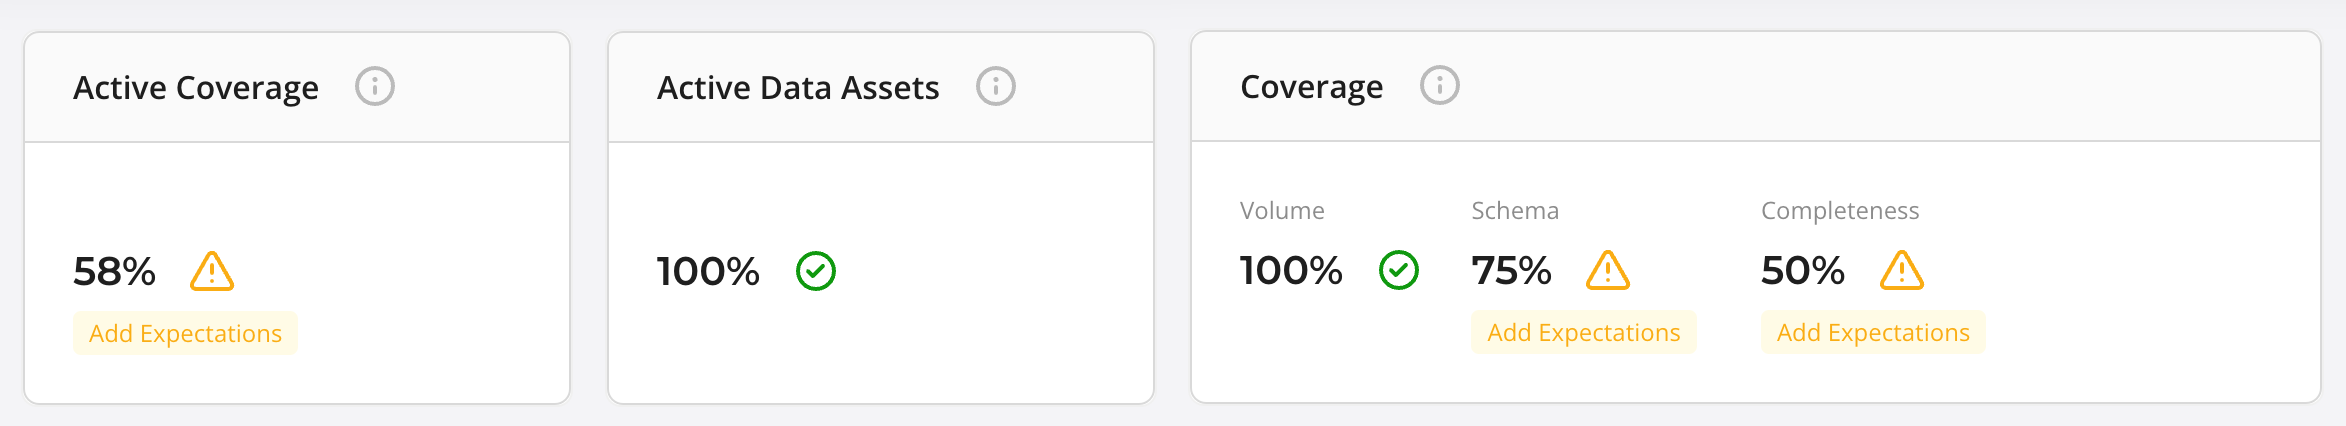
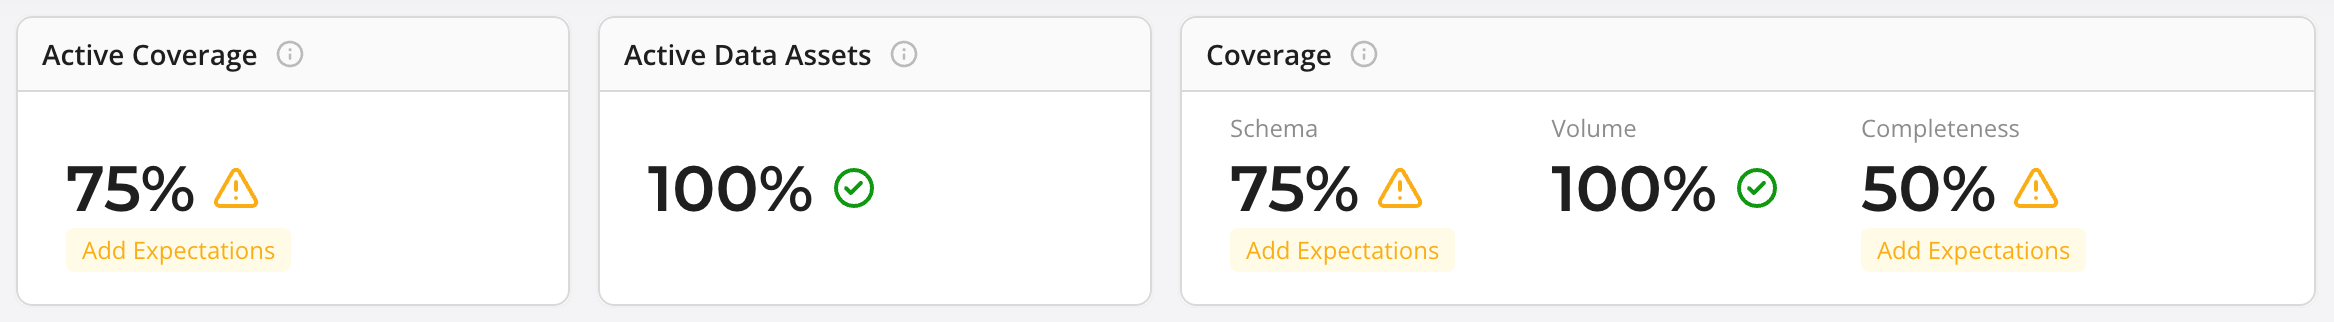
order

diff --git a/docs/docusaurus/docs/cloud/overview/coverage_health.md b/docs/docusaurus/docs/cloud/overview/coverage_health.md
@@ -8,23 +8,19 @@ To understand data health, you need to know more than just whether tests are pas
 ## Coverage health metrics
 To help you have a better understanding of data health, GX Cloud provides the following coverage health metrics on the **Data Assets** page:
 
-![Example metrics: Active Coverage 58% warning add Expectations, Active Data Assets 100%, volume 100%, schema 75% warning add Expectations, completeness 50% warning add Expectations.](/img/coverage_health.png)
+![Example metrics: Active Coverage 75% warning add Expectations, Active Data Assets 100%, schema 75% warning add Expectations, volume 100%, completeness 50% warning add Expectations.](/img/coverage_health.png)
 
-- **Active Coverage:** The percentage of Data Assets that have been validated in the last 30 days with an Expectation for volume, schema, or completeness. This is calculated as:
+- **Active Coverage:** The percentage of Data Assets that have been validated in the last 30 days with an Expectation for schema,volume, or completeness. This is calculated as:
    
    ```markup title="Formula"
-   ((% of Data Assets validated for volume) +
-    (% of Data Assets validated for schema) +
+   ((% of Data Assets validated for schema) +
+    (% of Data Assets validated for volume) +
     (% of Data Assets validated for completeness))
    / 3
    ```
 
 - **Active Data Assets:** The percentage of Data Assets that have had any Validations in the last 30 days. This metric does not consider what kinds of Expectations have been validated. 
 - **Coverage** for the following data quality issues. Note that these metrics consider only whether or not Expectations exist. The following metrics do not consider whether the Expectations have been validated. 
-   - **Volume:** The percentage of Data Assets that have at least one volume-focused Expectation. This includes the following Expectations:
-      - [ExpectTableRowCountToBeBetween](https://greatexpectations.io/expectations/expect_table_row_count_to_be_between/)
-      - [ExpectTableRowCountToEqual](https://greatexpectations.io/expectations/expect_table_row_count_to_equal/)
-      - [ExpectTableRowCountToEqualOtherTable](https://greatexpectations.io/expectations/expect_table_row_count_to_equal_other_table/)
    - **Schema:** The percentage of Data Assets that have at least one schema-focused Expectation. This includes the following Expectations:
       - [ExpectColumnToExist](https://greatexpectations.io/expectations/expect_column_to_exist/)
       - [ExpectColumnValuesToBeInTypeList](https://greatexpectations.io/expectations/expect_column_values_to_be_in_type_list/)
@@ -33,6 +29,10 @@ To help you have a better understanding of data health, GX Cloud provides the fo
       - [ExpectTableColumnCountToEqual](https://greatexpectations.io/expectations/expect_table_column_count_to_equal/)
       - [ExpectTableColumnsToMatchOrderedList](https://greatexpectations.io/expectations/expect_table_columns_to_match_ordered_list/)
       - [ExpectTableColumnsToMatchSet](https://greatexpectations.io/expectations/expect_table_columns_to_match_set/)
+   - **Volume:** The percentage of Data Assets that have at least one volume-focused Expectation. This includes the following Expectations:
+      - [ExpectTableRowCountToBeBetween](https://greatexpectations.io/expectations/expect_table_row_count_to_be_between/)
+      - [ExpectTableRowCountToEqual](https://greatexpectations.io/expectations/expect_table_row_count_to_equal/)
+      - [ExpectTableRowCountToEqualOtherTable](https://greatexpectations.io/expectations/expect_table_row_count_to_equal_other_table/)
    - **Completeness:** The percentage of Data Assets that have at least one completeness-focused Expectation. This includes the following Expectations:  
       - [ExpectColumnValuesToBeNull](https://greatexpectations.io/expectations/expect_column_values_to_be_null/)
       - [ExpectColumnValuesToNotBeNull](https://greatexpectations.io/expectations/expect_column_values_to_not_be_null/)
@@ -42,6 +42,6 @@ Only current Data Assets are considered in coverage health metrics. Deleted Data
 
 ## Next steps
 - If **Active Data Assets** are low, [schedule recurring Validations](/cloud/schedules/manage_schedules.md).
-- If **Volume**, **Schema**, or **Completeness** coverage is low, [add Expectations](/cloud/expectations/manage_expectations.md#add-an-expectation).
+- If **Schema**, **Volume**, or **Completeness** coverage is low, [add Expectations](/cloud/expectations/manage_expectations.md#add-an-expectation).
 - When adding new Data Assets, [automate standard data quality rules](/cloud/overview/automating_rules.md).
 
